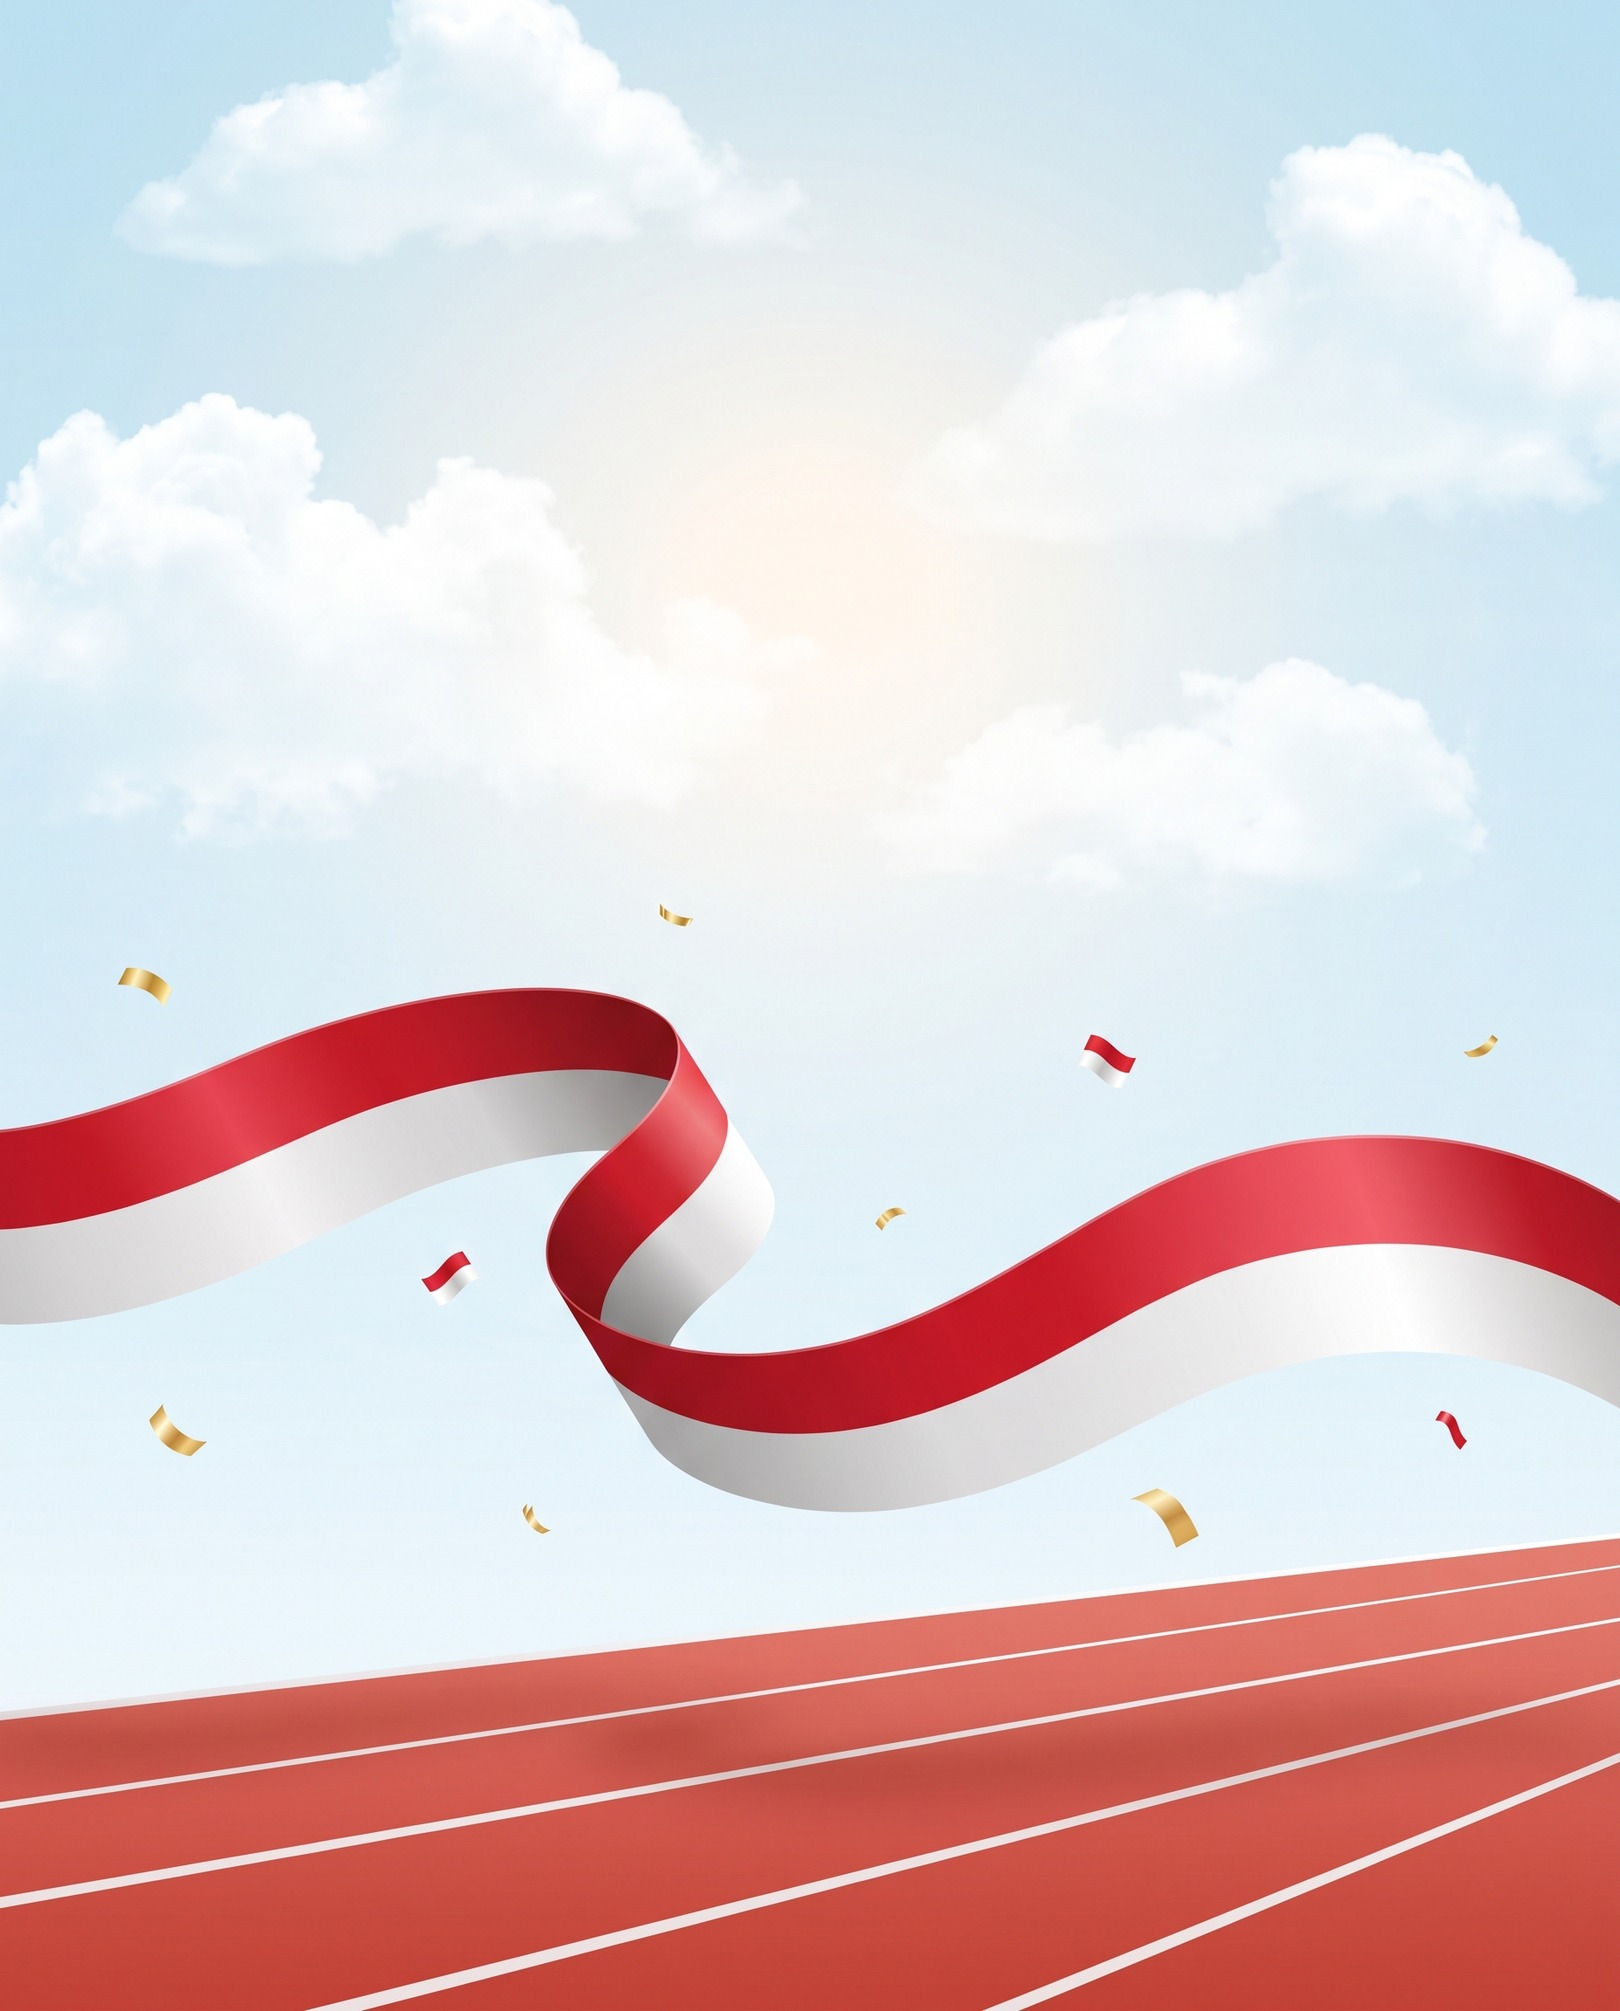
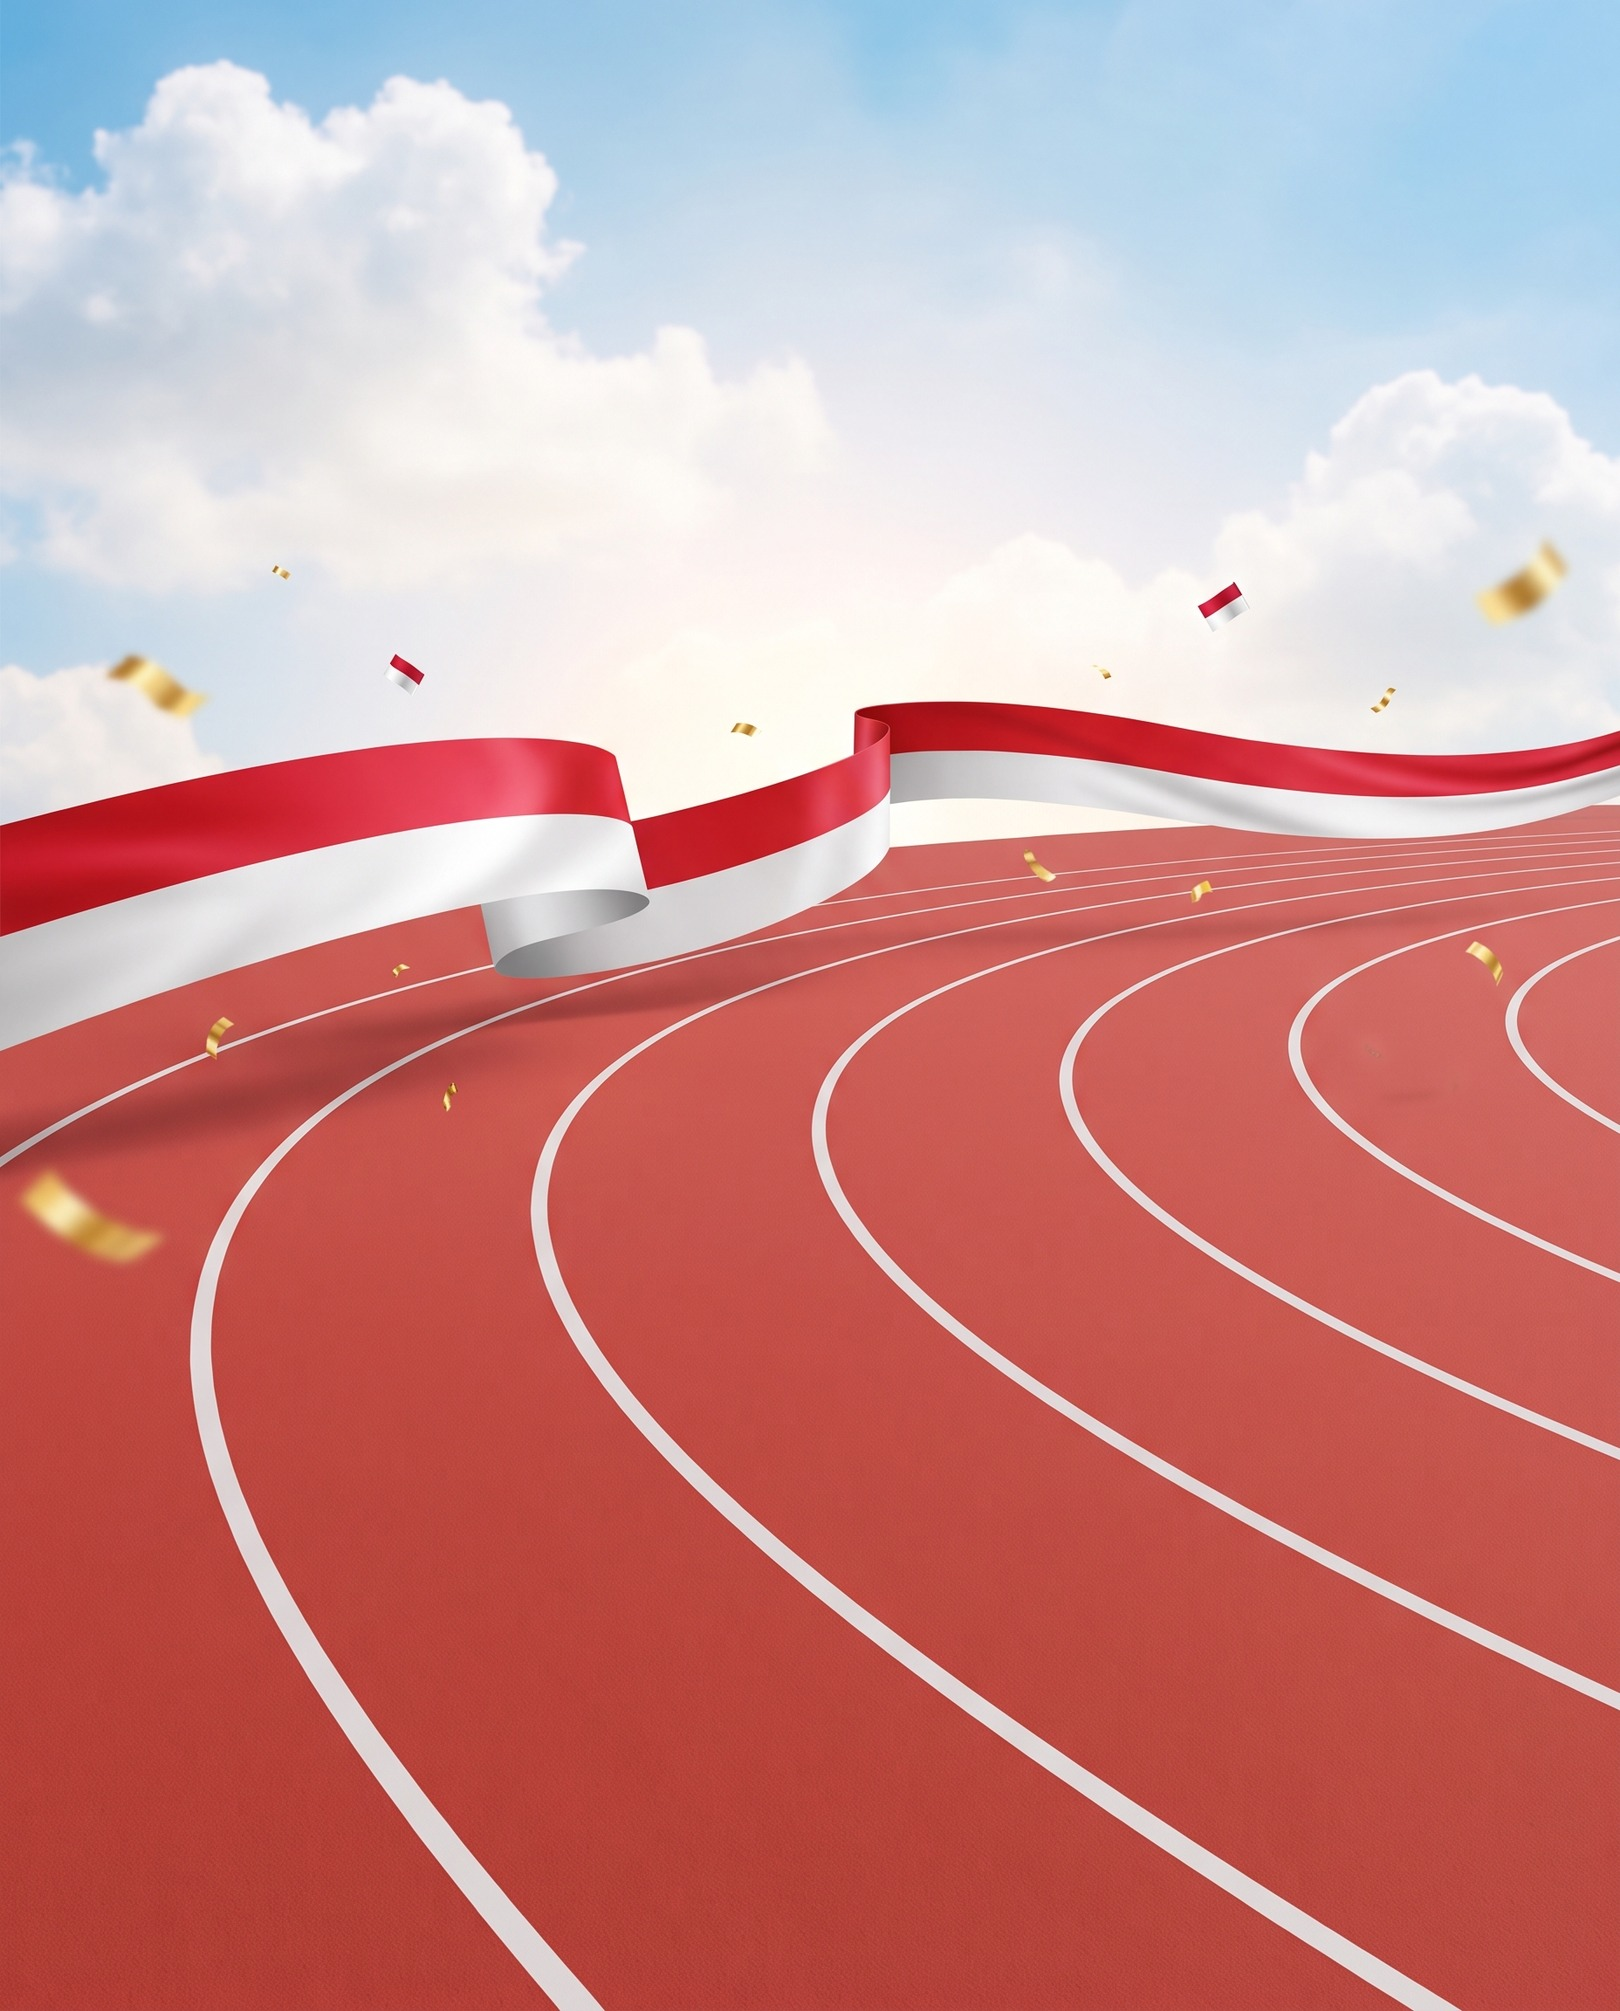
Fill the 17an frame with the track so the race reads as real
The first background's track was a thin strip at the foot of the frame, so
the products read as pouches displayed against sky rather than racers. The
regenerated background matches the reference's camera: an elevated
three-quarter view with the curving lanes filling the lower ~60% of the
frame, and the products now stand mid-surface surrounded by red on every
side, staggered along the lanes.

Lane numbers 2 and 3 are painted beside the trailing racers in CSS —
Comfortaa Bold at 50% white with rotate/skew/scaleY faking the on-rubber
perspective — keeping every glyph programmatic per the design system's
production rules instead of gambling on generated digits.

Claude-Session: https://claude.ai/code/session_01JLTZpkd5TWMrYgZzd5niuW

diff --git a/design/17agustus/banner.html b/design/17agustus/banner.html
@@ -78,8 +78,16 @@
   /* ── products on the track ── */
   .prod{position:absolute;z-index:6;filter:drop-shadow(0 18px 22px rgba(120,25,30,.35))}
   .p-shz{left:352px;top:590px;width:360px;z-index:7;transform:rotate(-3deg)}
-  .p-pre{left:34px; top:906px;width:350px;transform:rotate(-8deg)}
-  .p-tar{right:34px;top:889px;width:350px;transform:rotate(7deg)}
+  .p-pre{left:52px; top:766px;width:302px;transform:rotate(-8deg)}
+  .p-tar{right:52px;top:728px;width:302px;transform:rotate(7deg)}
+  /* lane numbers painted on the rubber, perspective-faked in CSS so the
+     digits stay programmatic text (production rule: no AI text) */
+  .lane{position:absolute;z-index:5;font-family:var(--brand-body);font-weight:700;
+    color:rgba(255,255,255,.5);line-height:1;pointer-events:none}
+  .lane.n2{left:118px;top:1000px;font-size:200px;
+    transform:rotate(-13deg) skewX(-26deg) scaleY(.62)}
+  .lane.n3{left:874px;top:1008px;font-size:158px;
+    transform:rotate(-11deg) skewX(-24deg) scaleY(.6)}
   /* finish-line tape breaking across the leader's lane, in front of everything */
   .tape{position:absolute;left:-70px;top:1192px;width:1220px;z-index:8;
     transform:rotate(-1.6deg);
@@ -126,8 +134,10 @@
   </div>
 
   <div class="gshadow" style="left:338px;top:1196px;width:400px;height:58px"></div>
-  <div class="gshadow" style="left:24px;top:1162px;width:362px;height:50px"></div>
-  <div class="gshadow" style="right:24px;top:1145px;width:362px;height:50px"></div>
+  <div class="gshadow" style="left:44px;top:978px;width:318px;height:46px"></div>
+  <div class="gshadow" style="right:44px;top:940px;width:318px;height:46px"></div>
+  <div class="lane n2">2</div>
+  <div class="lane n3">3</div>
 
   <img class="prod p-pre" src="assets/premix.png" alt="Matcha Premix 250 gram">
   <img class="prod p-tar" src="assets/taro.png" alt="Taro 250 gram">

diff --git a/design/17agustus/README.md b/design/17agustus/README.md
@@ -39,6 +39,16 @@ tanpa produk dan tanpa teks.
 
 ## Penataan lomba lari
 
+**Lintasan mengisi ~60% frame dilihat dari sudut atas** (generate kedua —
+versi pertama hanya strip tipis di dasar frame, produk terbaca "dipajang di
+depan langit", bukan balapan). Lajur melengkung dari kiri-bawah ke kanan,
+produk berdiri *di tengah* permukaan merah, dikelilingi lajur.
+
+**Angka lajur ("2", "3") bukan bagian background** — dilukis via CSS
+(`.lane`, Comfortaa Bold putih 50%, `rotate + skewX + scaleY` untuk meniru
+perspektif cat di karet) supaya teks tetap programatik sesuai aturan produksi
+design system. Kalau background digenerate ulang, angka lajur tidak ikut hilang.
+
 Produk ditata sebagai pelari di lintasan:
 
 - **Pose balapan referensi**: miring dinamis — Shizouka `-3°`, Premix `-8°`,
